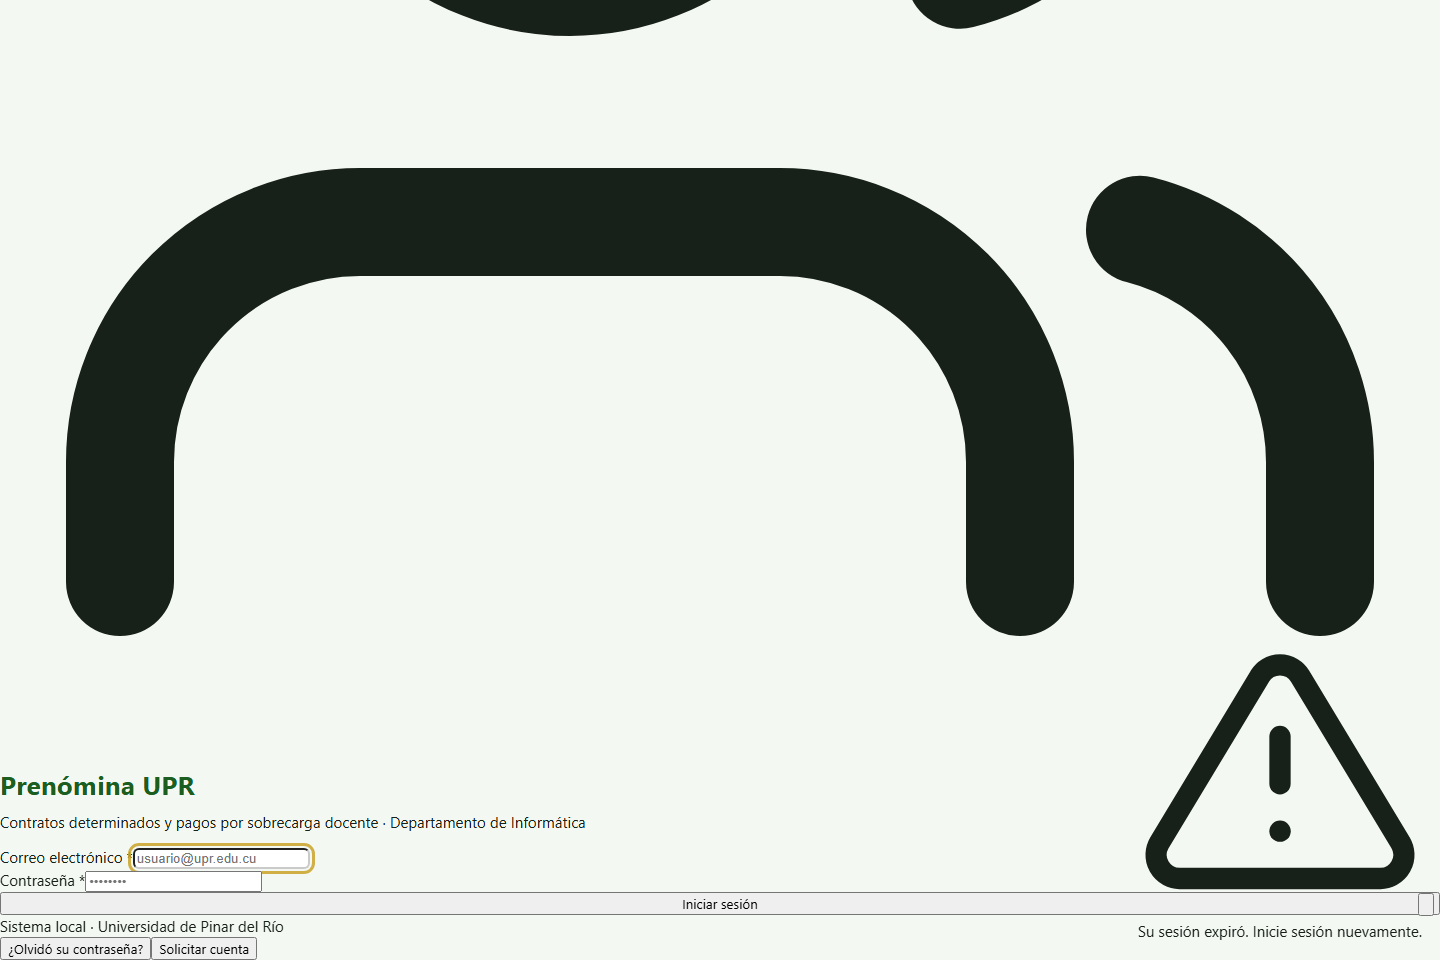
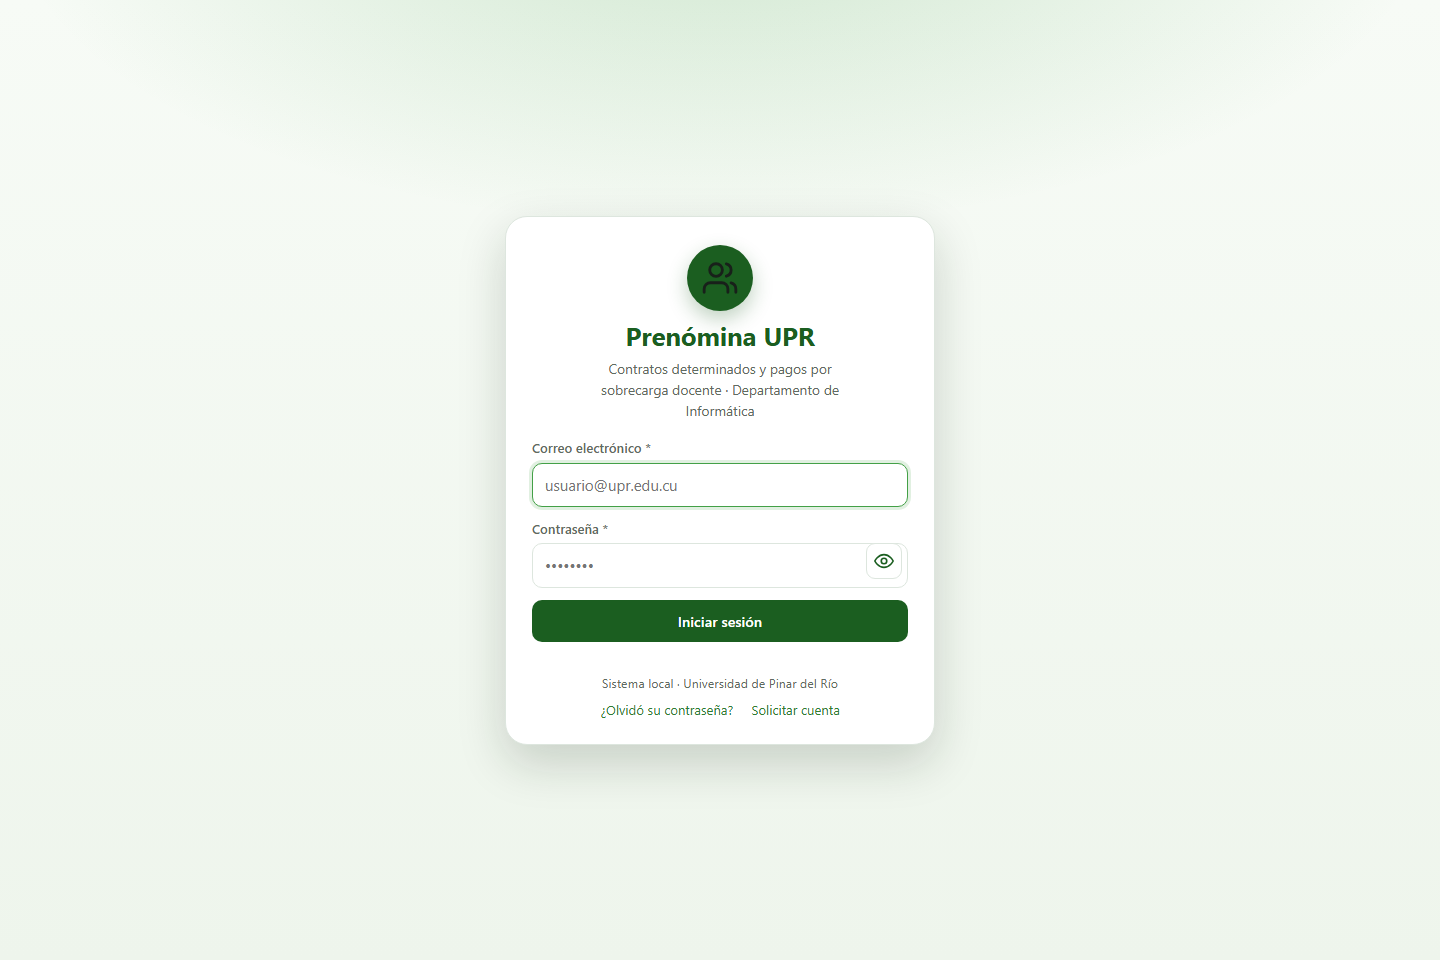
Tesis
Yosvany

diff --git a/web/js/ui.js b/web/js/ui.js
@@ -8,7 +8,7 @@ export function h(etiqueta, atributos = {}, ...hijos) {
   const elemento = document.createElement(etiqueta);
   for (const [clave, valor] of Object.entries(atributos || {})) {
     if (valor === null || valor === undefined || valor === false) continue;
-    if (clave === 'clase') elemento.className = valor;
+    if (clave === 'clase' || clave === 'class') elemento.className = valor;
     else if (clave === 'html') elemento.innerHTML = valor;
     else if (clave === 'texto') elemento.textContent = valor;
     else if (clave === 'on') {
@@ -17,14 +17,10 @@ export function h(etiqueta, atributos = {}, ...hijos) {
       }
     } else if (clave === 'dataset') Object.assign(elemento.dataset, valor);
     else if (clave === 'estilo') Object.assign(elemento.style, valor);
-    else if (clave.includes('-') || clave.startsWith('aria') || clave.startsWith('data')) {
-      elemento.setAttribute(clave, valor === true ? '' : String(valor));
+    else if (['value', 'checked', 'selected', 'disabled', 'indeterminate'].includes(clave)) {
+      elemento[clave] = valor;
     } else {
-      try {
-        elemento[clave] = valor;
-      } catch {
-        elemento.setAttribute(clave, String(valor));
-      }
+      elemento.setAttribute(clave, valor === true ? '' : String(valor));
     }
   }
   for (const hijo of hijos.flat(10)) {
@@ -167,10 +163,13 @@ const COLOR_ESTADO = {
   anulado: 'gris',
 };
 
+const COLORES_CHIP = new Set(['verde', 'azul', 'ambar', 'rojo', 'gris', 'teal', 'oro']);
+
 export function chip(estado, etiqueta) {
+  const clase = COLORES_CHIP.has(estado) ? estado : COLOR_ESTADO[estado] || 'gris';
   return h(
     'span',
-    { class: `chip ${COLOR_ESTADO[estado] || 'gris'}` },
+    { class: `chip ${clase}` },
     etiqueta || ETIQUETA_ESTADO[estado] || estado,
   );
 }
@@ -336,8 +335,7 @@ export function campo({
   deshabilitado = false,
 }) {
   const id = `campo-${nombre}-${++contadorId}`;
-  let control;
-  if (opciones) {
+  let control;  if (opciones) {
     control = h(
       'select',
       { id, name: nombre, requerido, deshabilitado },
@@ -355,6 +353,7 @@ export function campo({
     control = h('input', { id, name: nombre, type: tipo, requerido, placeholder, deshabilitado });
     control.value = valor ?? '';
   }
+  control.setAttribute('aria-label', etiqueta);
   const contenedor = h(
     'div',
     { class: `campo${error ? ' error' : ''}` },

diff --git a/web/sw.js b/web/sw.js
@@ -1,5 +1,5 @@
 /* Service worker de Prenómina UPR: carcasa offline y caché de activos. */
-const VERSION = 'prenomina-v1';
+const VERSION = 'prenomina-v2';
 const CARCASA = [
   '/',
   '/index.html',
@@ -59,17 +59,14 @@ self.addEventListener('fetch', (evento) => {
   }
 
   evento.respondWith(
-    caches.match(solicitud).then((cacheada) => {
-      if (cacheada) return cacheada;
-      return fetch(solicitud)
-        .then((respuesta) => {
-          if (respuesta.ok && url.origin === location.origin) {
-            const copia = respuesta.clone();
-            caches.open(VERSION).then((cache) => cache.put(solicitud, copia));
-          }
-          return respuesta;
-        })
-        .catch(() => Response.error());
-    }),
+    fetch(solicitud)
+      .then((respuesta) => {
+        if (respuesta.ok && url.origin === location.origin) {
+          const copia = respuesta.clone();
+          caches.open(VERSION).then((cache) => cache.put(solicitud, copia));
+        }
+        return respuesta;
+      })
+      .catch(() => caches.match(solicitud).then((cacheada) => cacheada || Response.error())),
   );
 });

diff --git a/web/js/charts.js b/web/js/charts.js
@@ -91,14 +91,17 @@ export function barrasHorizontales(lienzo, datos, { alto = 240, sufijo = '' } = 
       ctx.fillStyle = '#18201A';
       ctx.textAlign = 'left';
       ctx.font = '700 11px "Segoe UI", system-ui, sans-serif';
-      ctx.fillText(`${item.valor}${sufijo}`, margenIzq + longitud + 8, y + grosor / 2);
+      const etiquetaValor = formato ? formato(Number(item.valor || 0)) : `${item.valor}${sufijo}`;
+      ctx.fillText(etiquetaValor, margenIzq + longitud + 8, y + grosor / 2);
     });
   };
   pintar();
   observar(lienzo, pintar);
   lienzo.setAttribute(
     'aria-label',
-    datos.map((d) => `${d.etiqueta}: ${d.valor}${sufijo}`).join(', '),
+    datos
+      .map((d) => `${d.etiqueta}: ${formato ? formato(Number(d.valor || 0)) : `${d.valor}${sufijo}`}`)
+      .join(', '),
   );
   return pintar;
 }

diff --git a/web/js/api.js b/web/js/api.js
@@ -53,7 +53,13 @@ async function peticion(ruta, { method = 'GET', body, raw = false, reintentar = 
     throw new ApiError(0, 'SIN_RED', 'No hay conexión con el servidor local. Compruebe que esté iniciado.');
   }
 
-  if (respuesta.status === 401 && reintentar && !ruta.startsWith('/auth/login')) {
+  if (
+    respuesta.status === 401 &&
+    reintentar &&
+    !ruta.startsWith('/auth/login') &&
+    !ruta.startsWith('/auth/me') &&
+    document.cookie.includes('pn_refresh')
+  ) {
     const ok = await renovarSesion();
     if (ok) return peticion(ruta, { method, body, raw, reintentar: false });
     window.dispatchEvent(new CustomEvent('sesion-expirada'));

diff --git a/web/js/app.js b/web/js/app.js
@@ -107,6 +107,10 @@ let montado = false;
 /* ------------------------------------------------------------------ */
 
 async function arrancar() {
+  if (!document.cookie.includes('pn_csrf=')) {
+    renderLogin(app, { onEntrar: entrar });
+    return;
+  }
   try {
     const { usuario } = await api.me();
     await iniciarApp(usuario);

diff --git a/web/js/pages/login.js b/web/js/pages/login.js
@@ -22,6 +22,8 @@ export function renderLogin(raiz, { onEntrar }) {
     requerido: true,
     placeholder: '••••••••',
   });
+  correo.control.autocomplete = 'username';
+  clave.control.autocomplete = 'current-password';
   const verClave = h(
     'button',
     {
